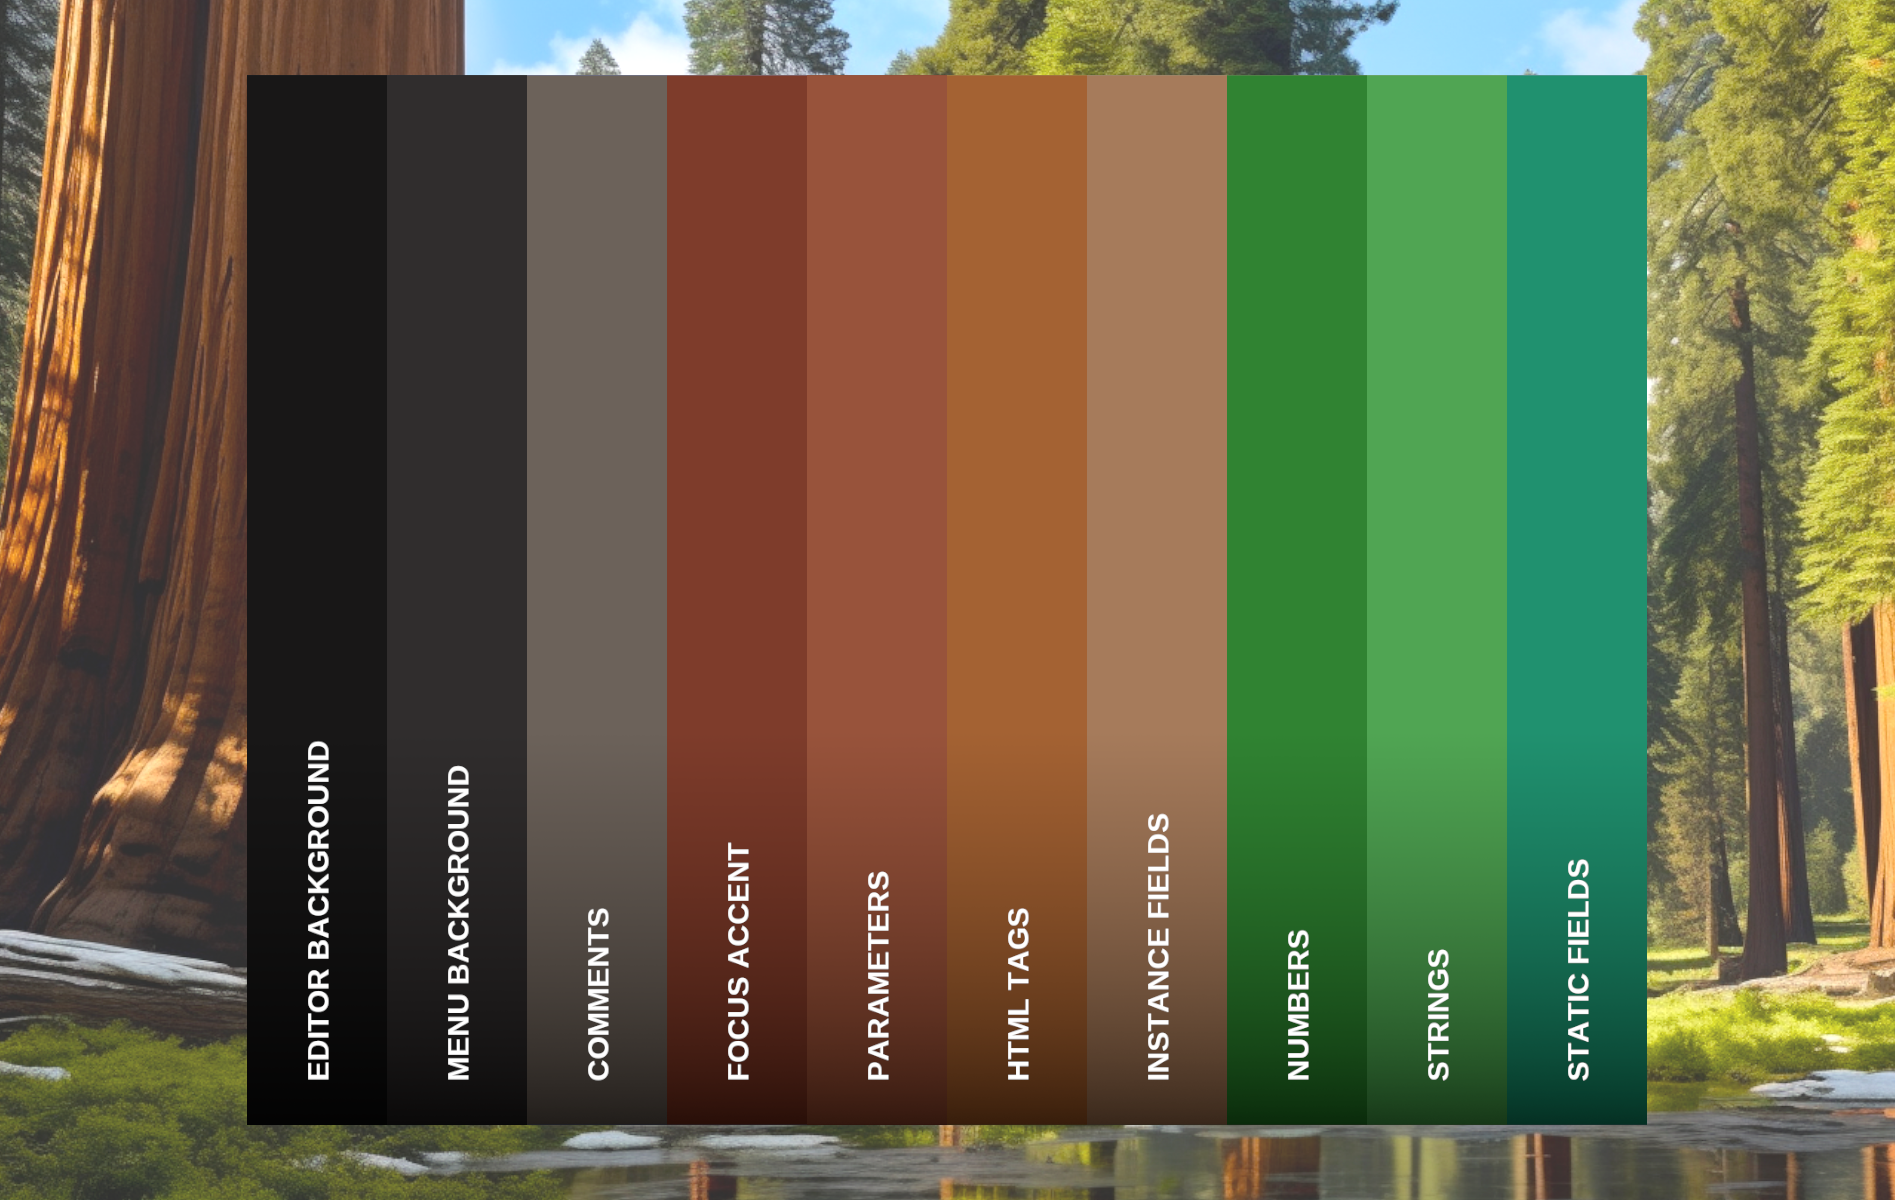
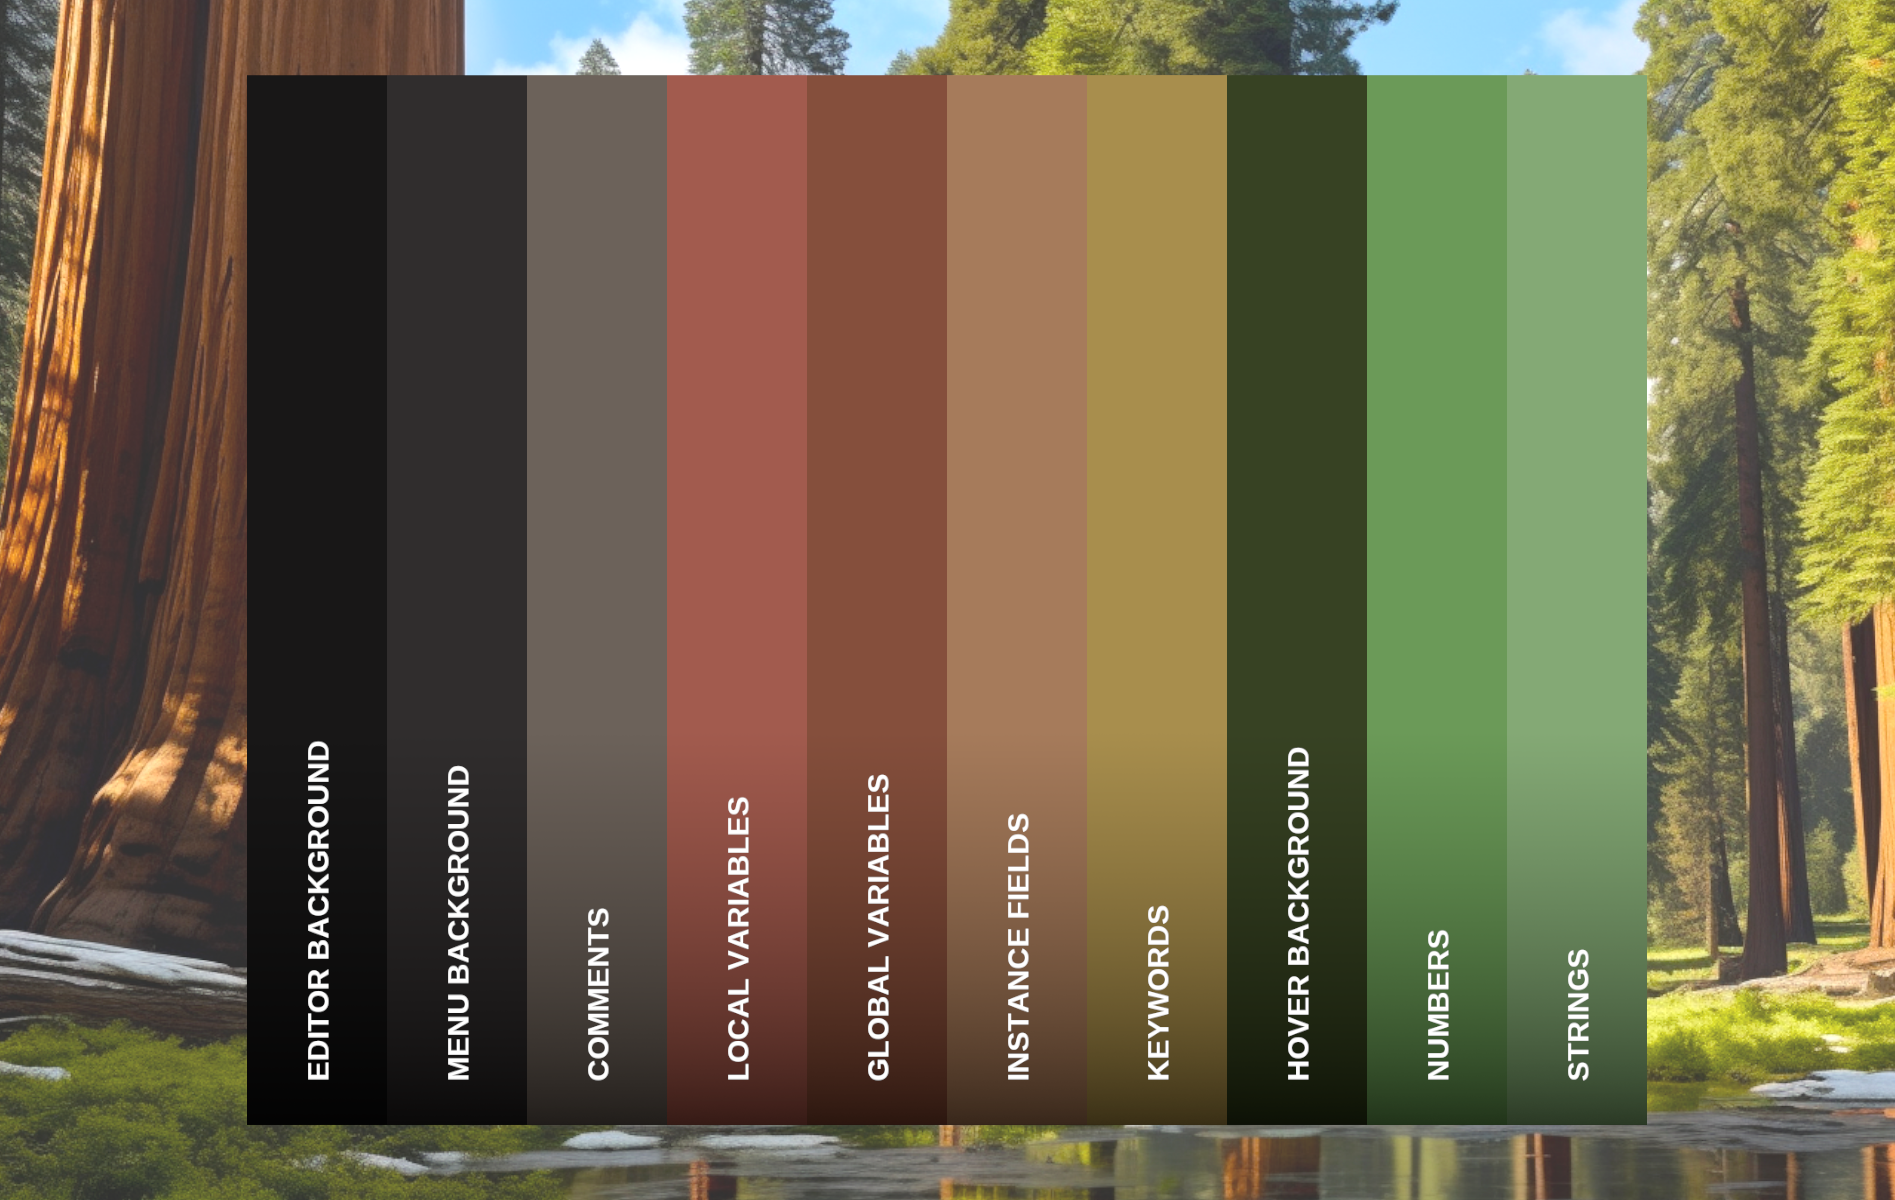
Update editor colors

Changed region(s): [[0.4982, 0.0617, 0.8718, 0.9558], [0.3425, 0.0617, 0.467, 0.8942]]

diff --git a/sequoia-theme/README.md b/sequoia-theme/README.md
@@ -34,15 +34,15 @@ grounded, tranquil palette guide you through the logical forest of your code eff
       <td align="center"><img src="https://codigrate.com/util/color/181717.png" alt="#181717"><br/><sub><b>#181717</b></sub><br/></td>
       <td align="center"><img src="https://codigrate.com/util/color/302D2D.png" alt="#302D2D"><br/><sub><b>#302D2D</b></sub><br/></td>
       <td align="center"><img src="https://codigrate.com/util/color/6C625A.png" alt="#6C625A"><br/><sub><b>#6C625A</b></sub><br/></td>
-      <td align="center"><img src="https://codigrate.com/util/color/7E3C2B.png" alt="#7E3C2B"><br/><sub><b>#7E3C2B</b></sub><br/></td>
-      <td align="center"><img src="https://codigrate.com/util/color/98533B.png" alt="#98533B"><br/><sub><b>#98533B</b></sub><br/></td>
+      <td align="center"><img src="https://codigrate.com/util/color/A25B4E.png" alt="#A25B4E"><br/><sub><b>#A25B4E</b></sub><br/></td>
+      <td align="center"><img src="https://codigrate.com/util/color/854F3C.png" alt="#854F3C"><br/><sub><b>#854F3C</b></sub><br/></td>
    </tr>
    <tr>
-      <td align="center"><img src="https://codigrate.com/util/color/A46233.png" alt="#A46233"><br/><sub><b>#A46233</b></sub><br/></td>
       <td align="center"><img src="https://codigrate.com/util/color/A67B5B.png" alt="#A67B5B"><br/><sub><b>#A67B5B</b></sub><br/></td>
-      <td align="center"><img src="https://codigrate.com/util/color/308332.png" alt="#308332"><br/><sub><b>#308332</b></sub><br/></td>
-      <td align="center"><img src="https://codigrate.com/util/color/50A553.png" alt="#50A553"><br/><sub><b>#50A553</b></sub><br/></td>
-      <td align="center"><img src="https://codigrate.com/util/color/20916F.png" alt="#20916F"><br/><sub><b>#20916F</b></sub><br/></td>
+      <td align="center"><img src="https://codigrate.com/util/color/A88E4D.png" alt="#A88E4D"><br/><sub><b>#A88E4D</b></sub><br/></td>
+      <td align="center"><img src="https://codigrate.com/util/color/374223.png" alt="#374223"><br/><sub><b>#374223</b></sub><br/></td>
+      <td align="center"><img src="https://codigrate.com/util/color/6B9A58.png" alt="#6B9A58"><br/><sub><b>#6B9A58</b></sub><br/></td>
+      <td align="center"><img src="https://codigrate.com/util/color/84A975.png" alt="#84A975"><br/><sub><b>#84A975</b></sub><br/></td>
    </tr>
 </table>
 
